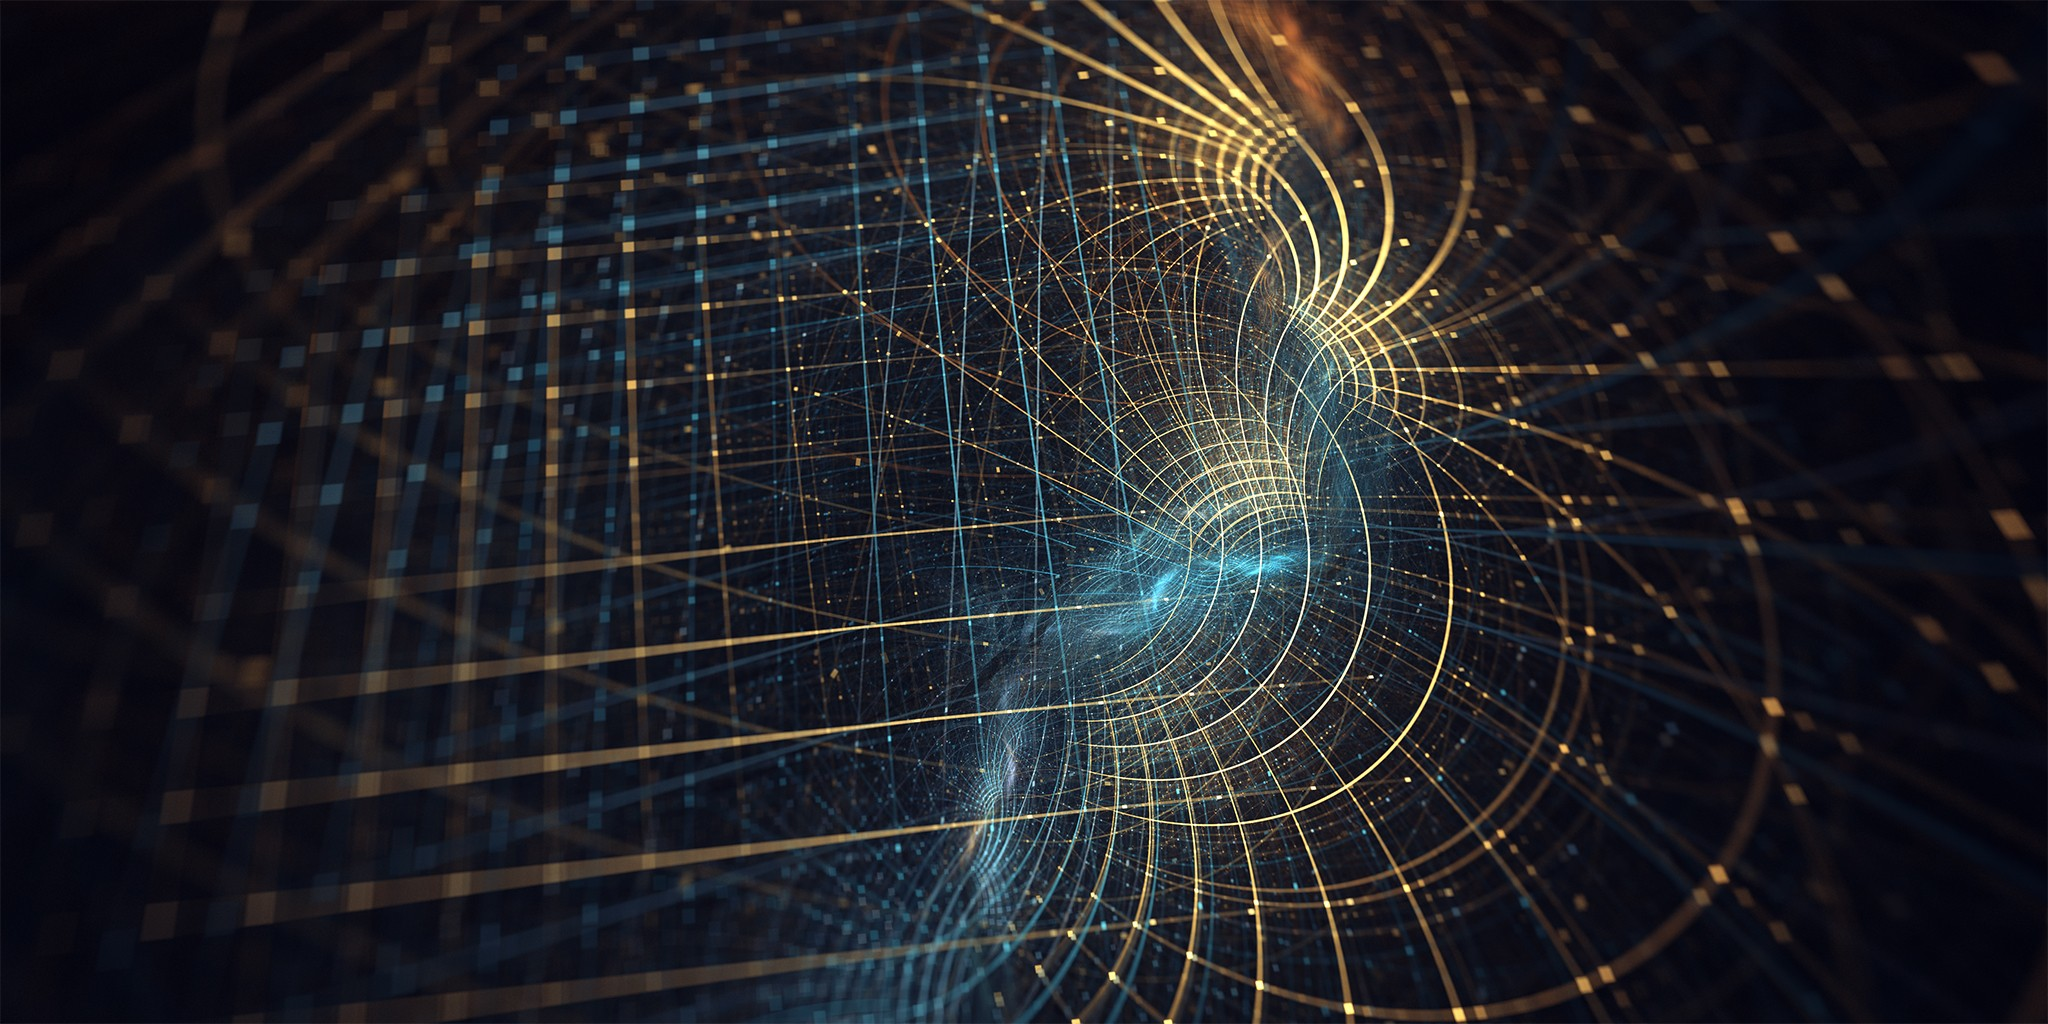
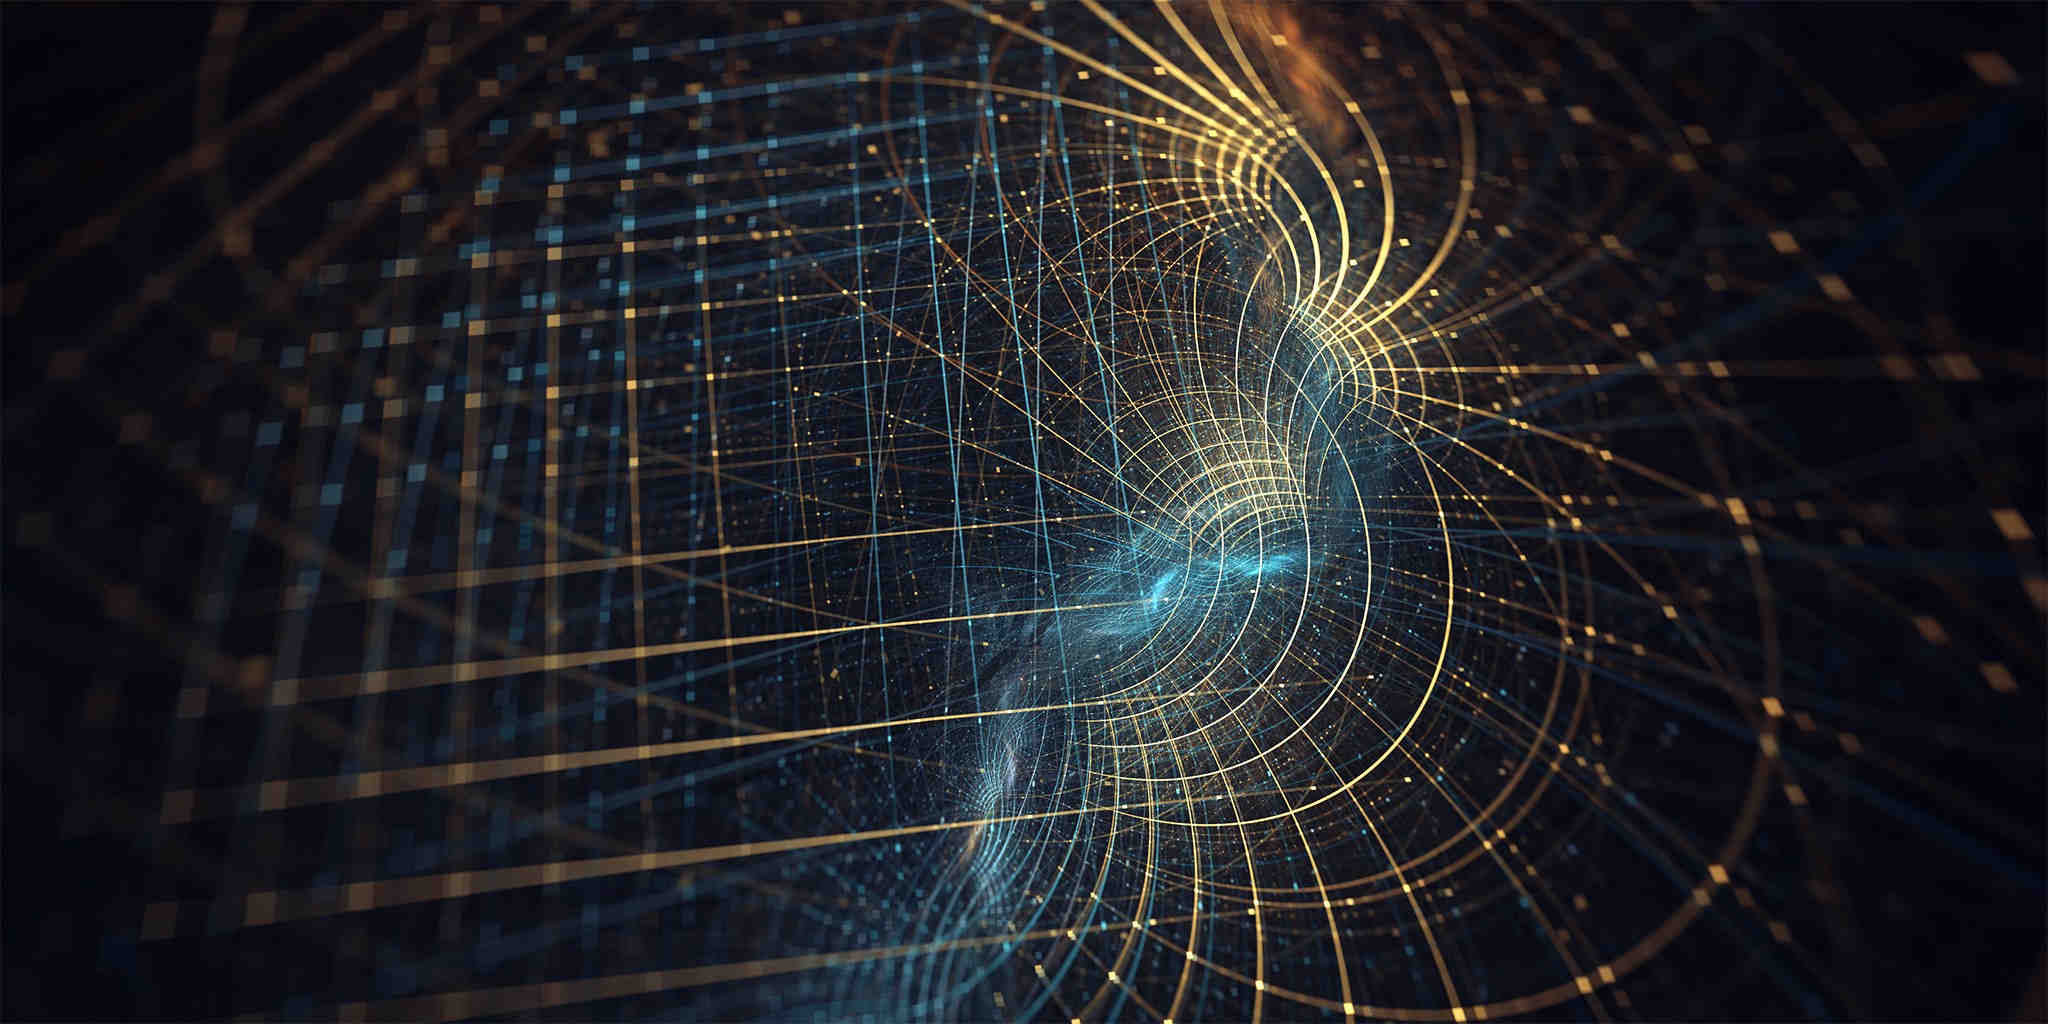
fix factorial

Changed region(s): [[0.4688, 0.1875, 0.7188, 0.8438]]

diff --git a/recursion.html b/recursion.html
@@ -37,7 +37,7 @@
         <div class="container row text-center cont-left cont-top padded">
             <div class="col-md-4">
                 <div class="card" style="width: 18rem;">
-                    <img class="card-img-top img-h" src="Images/factorial.png" alt="Card image cap">
+                    <img class="card-img-top img-h" src="Images/factorial.jpg" alt="Card image cap">
                     <div class="card-body">
                         <h3 class="card-title"><b>Factorial of a Number</b></h3>
                         <p class="card-text">This is a recursive program that finds the factorial of any
